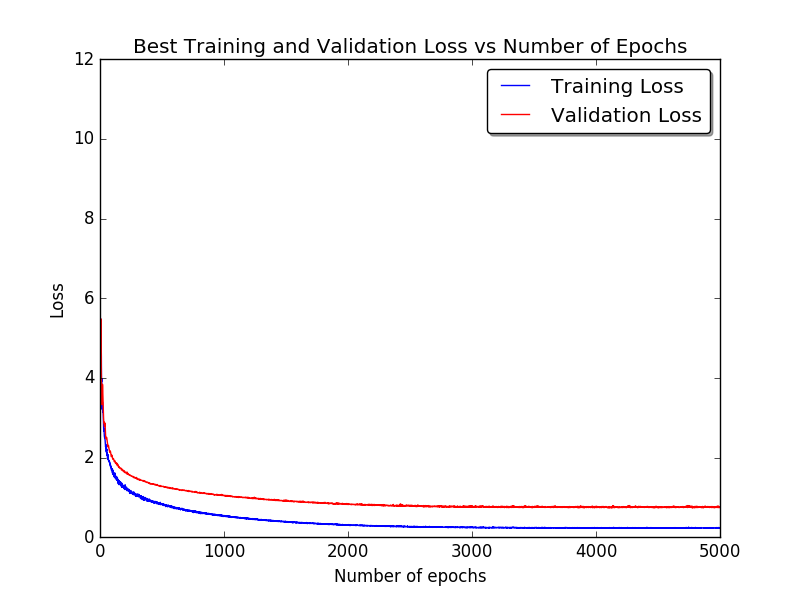
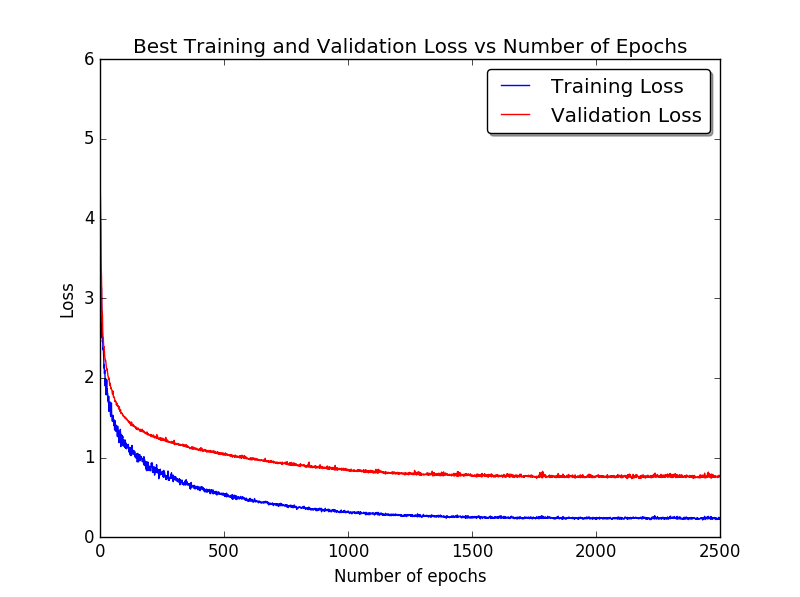
Q2.2 revised

diff --git a/assignments/ass2/assignment2_part2.2.2.py b/assignments/ass2/assignment2_part2.2.2.py
@@ -50,7 +50,7 @@ def prediction(X, W, b):
 def logisticRegression():
 
     # Variable definitions
-    batchSize = 500
+    batchSize = 300
     numIterations = 5000
     learningRate = 0.005
 
@@ -67,7 +67,7 @@ def logisticRegression():
     numValidationSamples = validData.shape[0]
     numTestSamples = testData.shape[0]
 
-    # i.e numBatches = 15000/500 = 30
+    # i.e numBatches = 747//300 = 2
     numBatches = numTrainingSamples // batchSize
     numEpochs = numIterations // numBatches
 
@@ -233,7 +233,7 @@ def logisticRegression():
     plt.title("Best Training and Validation Accuracy vs Number of Epochs")    
     plt.show()
 
-    # Calculate best test accuracy obtained: 89.5
+    # Calculate best test accuracy obtained: 90.32
     bestTestAccuracy = max(bestTestAccuracyPerEpoch)
     print("Best [learning rate, wdc] is ", bestLearningRate_wdc, "and best test accuracy for this rate is", bestTestAccuracy)
 

diff --git a/assignments/ass2/assignment2_part2.2.1.py b/assignments/ass2/assignment2_part2.2.1.py
@@ -222,7 +222,7 @@ def logisticRegression():
     plt.title("Best Training and Validation Accuracy vs Number of Epochs")    
     plt.show()
 
-    # Calculate best test accuracy obtained: 89.5
+    # Calculate best test accuracy obtained: 89.50
     bestTestAccuracy = max(bestTestAccuracyPerEpoch)
     print("Best learning rate is ", bestLearningRate, "and best test accuracy for this rate is", bestTestAccuracy)
 
